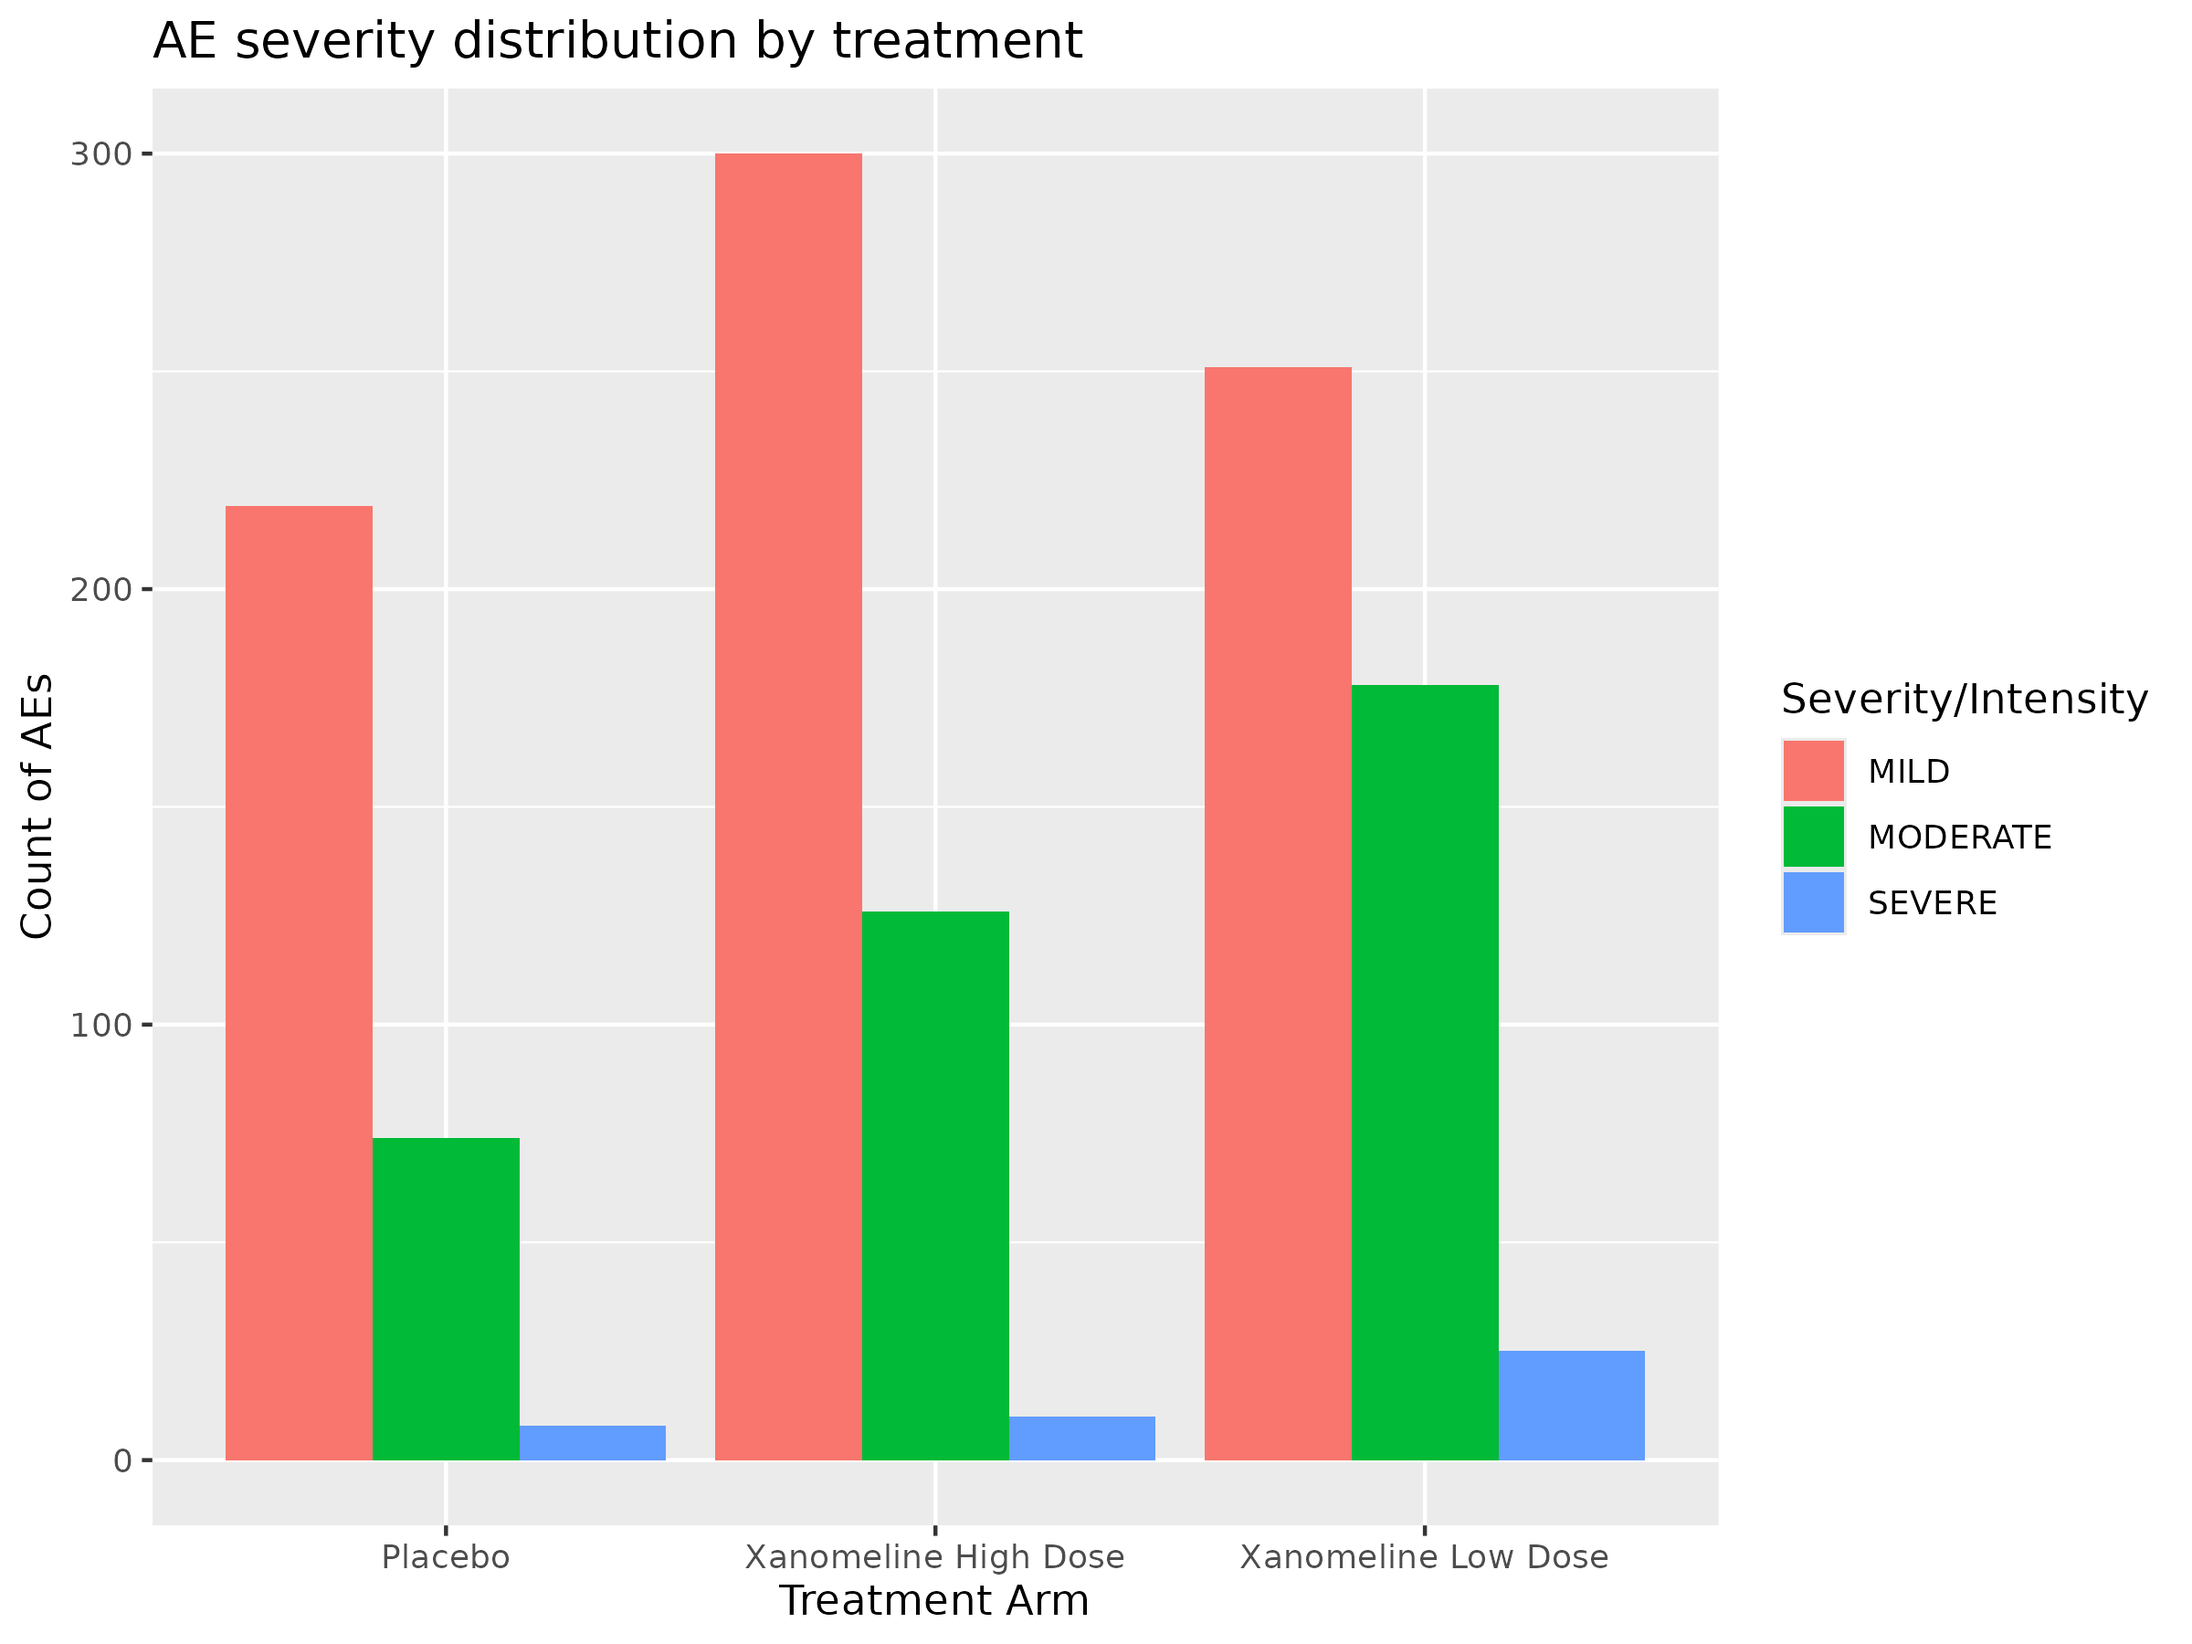
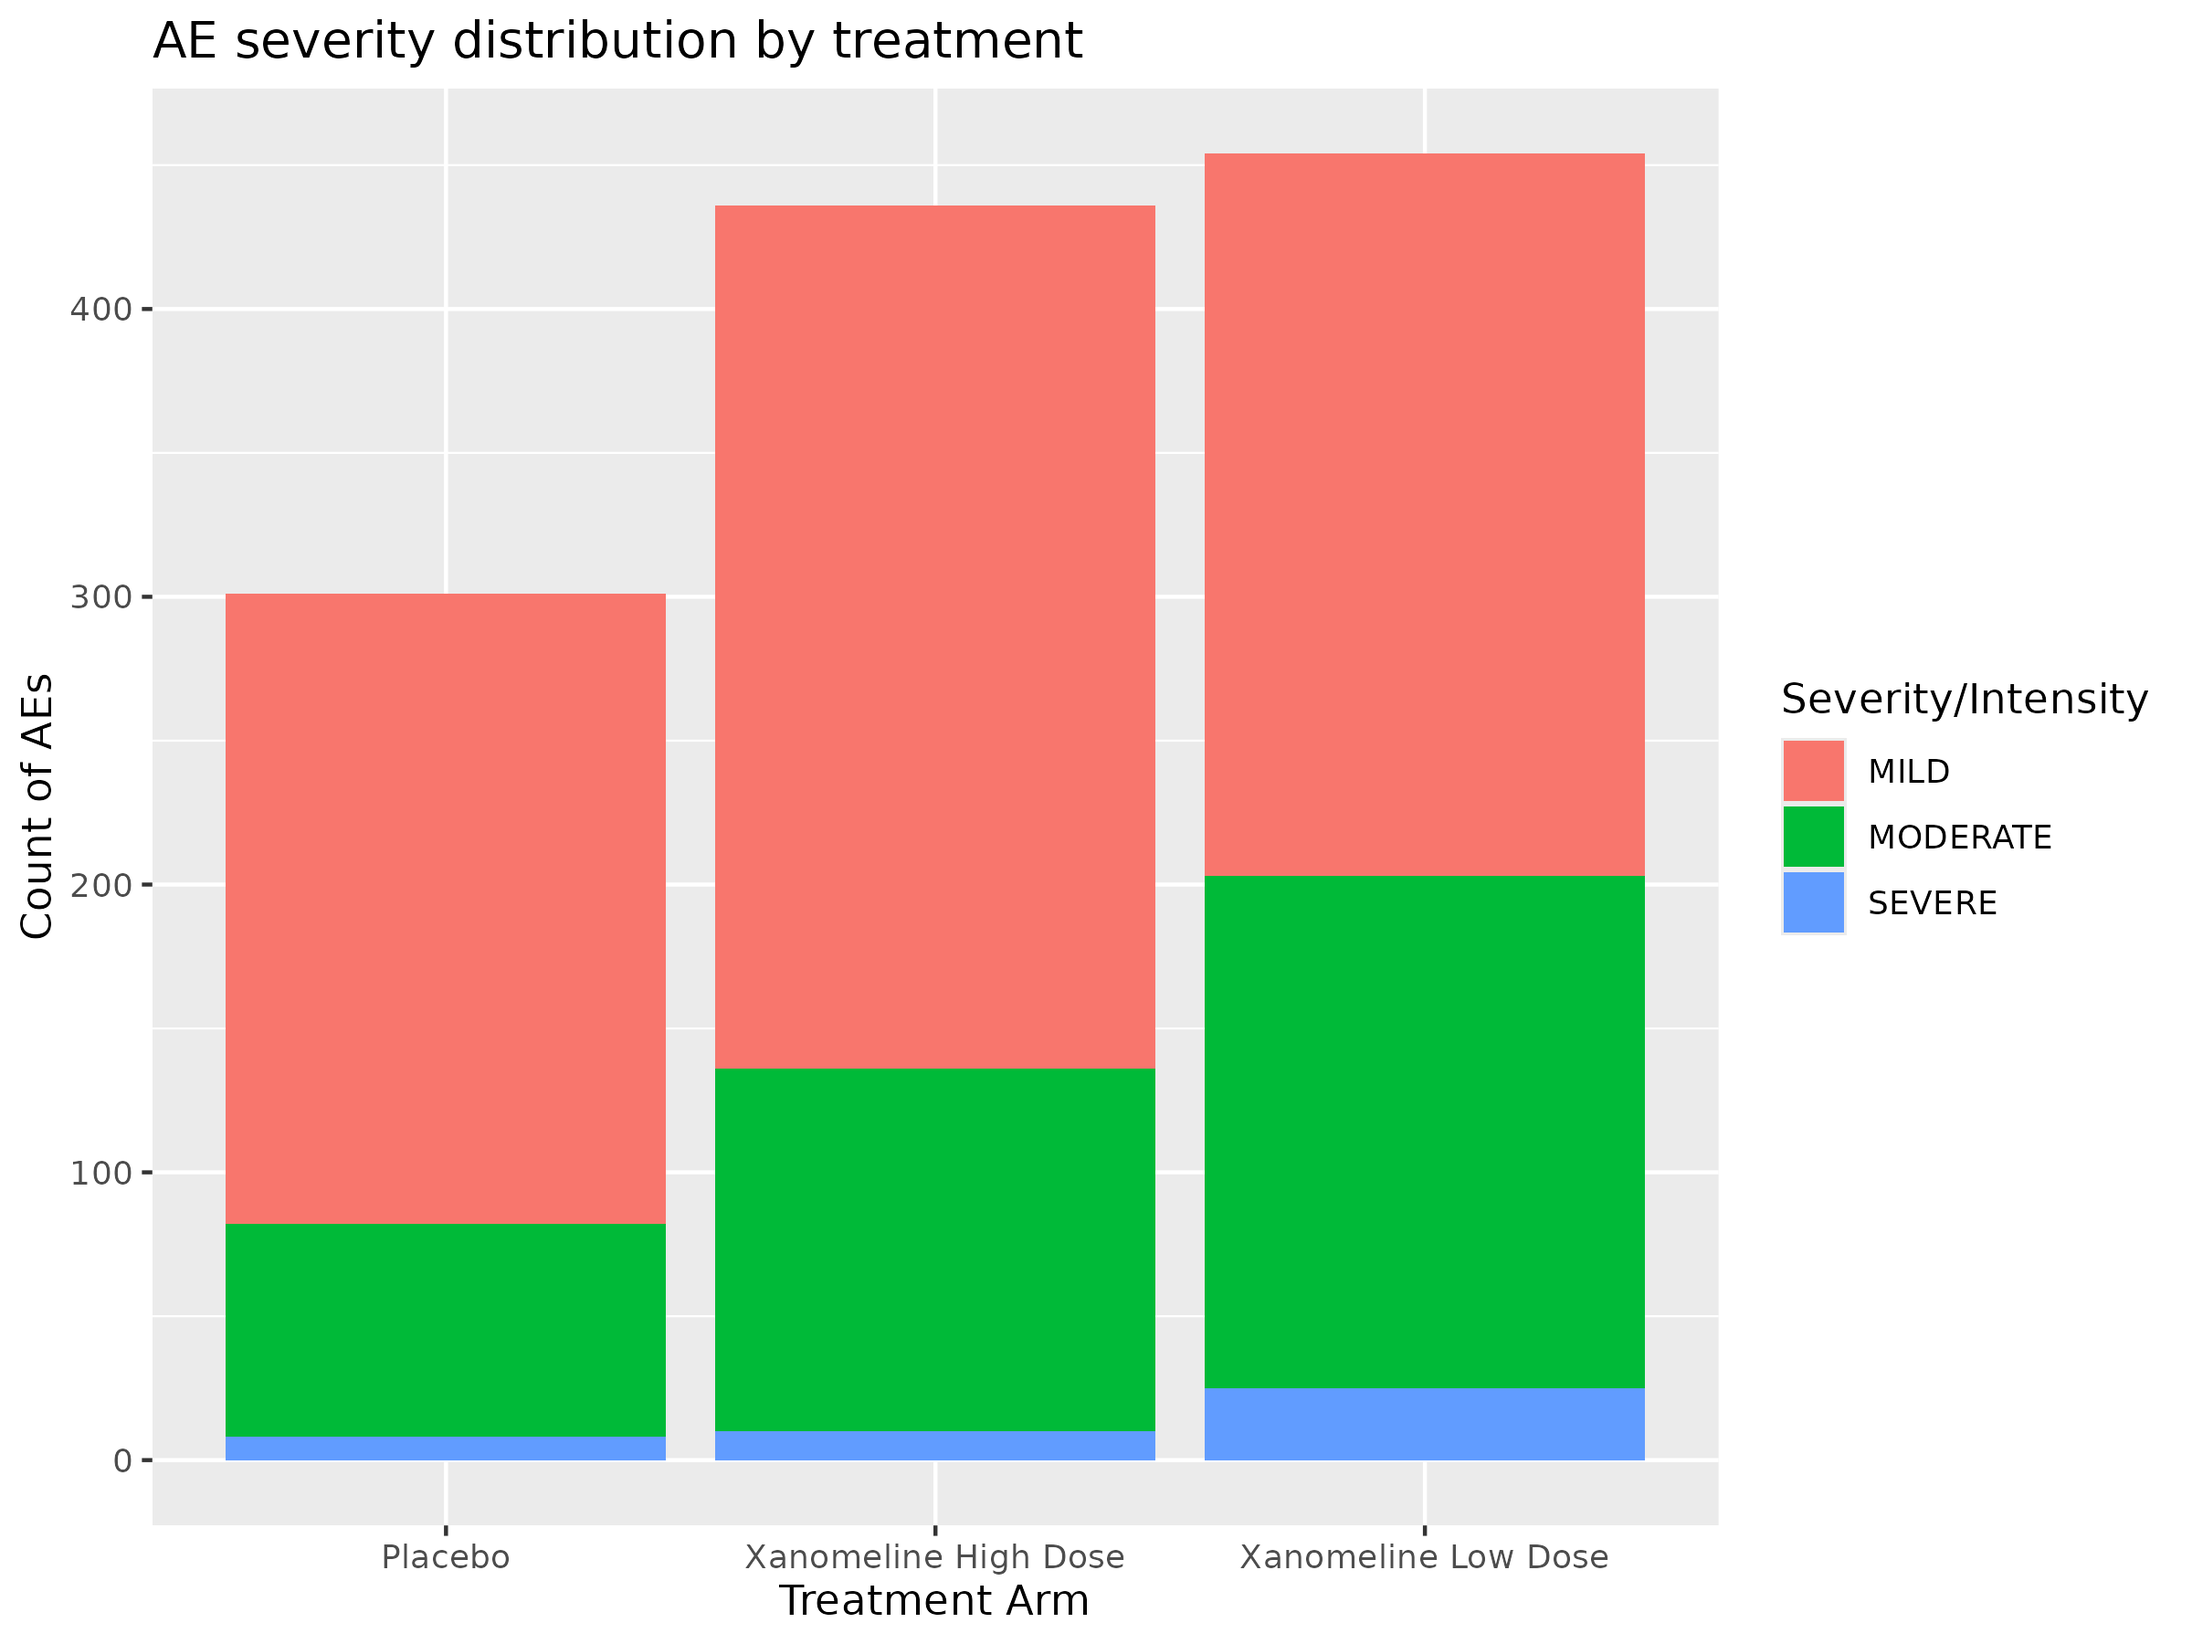
make stack barplots & remove depracated ggplot2 fun

Changed region(s): [[0.0938, 0.0933, 0.75, 0.9022], [0.0312, 0.5289, 0.0625, 0.56], [0.0312, 0.3422, 0.0625, 0.3733]]

diff --git a/question_3_tlg/teaes.html b/question_3_tlg/teaes.html
@@ -7,23 +7,23 @@
 
 </head>
 <body>
-<div id="jhiuediqqu" style="padding-left:0px;padding-right:0px;padding-top:10px;padding-bottom:10px;overflow-x:auto;overflow-y:auto;width:auto;height:auto;">
-  <style>#jhiuediqqu table {
+<div id="xucfghufyy" style="padding-left:0px;padding-right:0px;padding-top:10px;padding-bottom:10px;overflow-x:auto;overflow-y:auto;width:auto;height:auto;">
+  <style>#xucfghufyy table {
   font-family: system-ui, 'Segoe UI', Roboto, Helvetica, Arial, sans-serif, 'Apple Color Emoji', 'Segoe UI Emoji', 'Segoe UI Symbol', 'Noto Color Emoji';
   -webkit-font-smoothing: antialiased;
   -moz-osx-font-smoothing: grayscale;
 }
 
-#jhiuediqqu thead, #jhiuediqqu tbody, #jhiuediqqu tfoot, #jhiuediqqu tr, #jhiuediqqu td, #jhiuediqqu th {
+#xucfghufyy thead, #xucfghufyy tbody, #xucfghufyy tfoot, #xucfghufyy tr, #xucfghufyy td, #xucfghufyy th {
   border-style: none;
 }
 
-#jhiuediqqu p {
+#xucfghufyy p {
   margin: 0;
   padding: 0;
 }
 
-#jhiuediqqu .gt_table {
+#xucfghufyy .gt_table {
   display: table;
   border-collapse: collapse;
   line-height: normal;
@@ -49,12 +49,12 @@
   border-left-color: #D3D3D3;
 }
 
-#jhiuediqqu .gt_caption {
+#xucfghufyy .gt_caption {
   padding-top: 4px;
   padding-bottom: 4px;
 }
 
-#jhiuediqqu .gt_title {
+#xucfghufyy .gt_title {
   color: #333333;
   font-size: 125%;
   font-weight: initial;
@@ -66,7 +66,7 @@
   border-bottom-width: 0;
 }
 
-#jhiuediqqu .gt_subtitle {
+#xucfghufyy .gt_subtitle {
   color: #333333;
   font-size: 85%;
   font-weight: initial;
@@ -78,7 +78,7 @@
   border-top-width: 0;
 }
 
-#jhiuediqqu .gt_heading {
+#xucfghufyy .gt_heading {
   background-color: #FFFFFF;
   text-align: center;
   border-bottom-color: #FFFFFF;
@@ -90,13 +90,13 @@
   border-right-color: #D3D3D3;
 }
 
-#jhiuediqqu .gt_bottom_border {
+#xucfghufyy .gt_bottom_border {
   border-bottom-style: solid;
   border-bottom-width: 2px;
   border-bottom-color: #D3D3D3;
 }
 
-#jhiuediqqu .gt_col_headings {
+#xucfghufyy .gt_col_headings {
   border-top-style: solid;
   border-top-width: 2px;
   border-top-color: #D3D3D3;
@@ -111,7 +111,7 @@
   border-right-color: #D3D3D3;
 }
 
-#jhiuediqqu .gt_col_heading {
+#xucfghufyy .gt_col_heading {
   color: #333333;
   background-color: #FFFFFF;
   font-size: 100%;
@@ -131,7 +131,7 @@
   overflow-x: hidden;
 }
 
-#jhiuediqqu .gt_column_spanner_outer {
+#xucfghufyy .gt_column_spanner_outer {
   color: #333333;
   background-color: #FFFFFF;
   font-size: 100%;
@@ -143,15 +143,15 @@
   padding-right: 4px;
 }
 
-#jhiuediqqu .gt_column_spanner_outer:first-child {
+#xucfghufyy .gt_column_spanner_outer:first-child {
   padding-left: 0;
 }
 
-#jhiuediqqu .gt_column_spanner_outer:last-child {
+#xucfghufyy .gt_column_spanner_outer:last-child {
   padding-right: 0;
 }
 
-#jhiuediqqu .gt_column_spanner {
+#xucfghufyy .gt_column_spanner {
   border-bottom-style: solid;
   border-bottom-width: 2px;
   border-bottom-color: #D3D3D3;
@@ -163,11 +163,11 @@
   width: 100%;
 }
 
-#jhiuediqqu .gt_spanner_row {
+#xucfghufyy .gt_spanner_row {
   border-bottom-style: hidden;
 }
 
-#jhiuediqqu .gt_group_heading {
+#xucfghufyy .gt_group_heading {
   padding-top: 8px;
   padding-bottom: 8px;
   padding-left: 5px;
@@ -193,7 +193,7 @@
   text-align: left;
 }
 
-#jhiuediqqu .gt_empty_group_heading {
+#xucfghufyy .gt_empty_group_heading {
   padding: 0.5px;
   color: #333333;
   background-color: #FFFFFF;
@@ -208,15 +208,15 @@
   vertical-align: middle;
 }
 
-#jhiuediqqu .gt_from_md > :first-child {
+#xucfghufyy .gt_from_md > :first-child {
   margin-top: 0;
 }
 
-#jhiuediqqu .gt_from_md > :last-child {
+#xucfghufyy .gt_from_md > :last-child {
   margin-bottom: 0;
 }
 
-#jhiuediqqu .gt_row {
+#xucfghufyy .gt_row {
   padding-top: 8px;
   padding-bottom: 8px;
   padding-left: 5px;
@@ -235,7 +235,7 @@
   overflow-x: hidden;
 }
 
-#jhiuediqqu .gt_stub {
+#xucfghufyy .gt_stub {
   color: #333333;
   background-color: #FFFFFF;
   font-size: 100%;
@@ -248,7 +248,7 @@
   padding-right: 5px;
 }
 
-#jhiuediqqu .gt_stub_row_group {
+#xucfghufyy .gt_stub_row_group {
   color: #333333;
   background-color: #FFFFFF;
   font-size: 100%;
@@ -262,15 +262,15 @@
   vertical-align: top;
 }
 
-#jhiuediqqu .gt_row_group_first td {
+#xucfghufyy .gt_row_group_first td {
   border-top-width: 2px;
 }
 
-#jhiuediqqu .gt_row_group_first th {
+#xucfghufyy .gt_row_group_first th {
   border-top-width: 2px;
 }
 
-#jhiuediqqu .gt_summary_row {
+#xucfghufyy .gt_summary_row {
   color: #333333;
   background-color: #FFFFFF;
   text-transform: inherit;
@@ -280,16 +280,16 @@
   padding-right: 5px;
 }
 
-#jhiuediqqu .gt_first_summary_row {
+#xucfghufyy .gt_first_summary_row {
   border-top-style: solid;
   border-top-color: #D3D3D3;
 }
 
-#jhiuediqqu .gt_first_summary_row.thick {
+#xucfghufyy .gt_first_summary_row.thick {
   border-top-width: 2px;
 }
 
-#jhiuediqqu .gt_last_summary_row {
+#xucfghufyy .gt_last_summary_row {
   padding-top: 8px;
   padding-bottom: 8px;
   padding-left: 5px;
@@ -299,7 +299,7 @@
   border-bottom-color: #D3D3D3;
 }
 
-#jhiuediqqu .gt_grand_summary_row {
+#xucfghufyy .gt_grand_summary_row {
   color: #333333;
   background-color: #FFFFFF;
   text-transform: inherit;
@@ -309,7 +309,7 @@
   padding-right: 5px;
 }
 
-#jhiuediqqu .gt_first_grand_summary_row {
+#xucfghufyy .gt_first_grand_summary_row {
   padding-top: 8px;
   padding-bottom: 8px;
   padding-left: 5px;
@@ -319,7 +319,7 @@
   border-top-color: #D3D3D3;
 }
 
-#jhiuediqqu .gt_last_grand_summary_row_top {
+#xucfghufyy .gt_last_grand_summary_row_top {
   padding-top: 8px;
   padding-bottom: 8px;
   padding-left: 5px;
@@ -329,11 +329,11 @@
   border-bottom-color: #D3D3D3;
 }
 
-#jhiuediqqu .gt_striped {
+#xucfghufyy .gt_striped {
   background-color: rgba(128, 128, 128, 0.05);
 }
 
-#jhiuediqqu .gt_table_body {
+#xucfghufyy .gt_table_body {
   border-top-style: solid;
   border-top-width: 2px;
   border-top-color: #D3D3D3;
@@ -342,7 +342,7 @@
   border-bottom-color: #D3D3D3;
 }
 
-#jhiuediqqu .gt_footnotes {
+#xucfghufyy .gt_footnotes {
   color: #333333;
   background-color: #FFFFFF;
   border-bottom-style: none;
@@ -356,7 +356,7 @@
   border-right-color: #D3D3D3;
 }
 
-#jhiuediqqu .gt_footnote {
+#xucfghufyy .gt_footnote {
   margin: 0px;
   font-size: 90%;
   padding-top: 4px;
@@ -365,7 +365,7 @@
   padding-right: 5px;
 }
 
-#jhiuediqqu .gt_sourcenotes {
+#xucfghufyy .gt_sourcenotes {
   color: #333333;
   background-color: #FFFFFF;
   border-bottom-style: none;
@@ -379,7 +379,7 @@
   border-right-color: #D3D3D3;
 }
 
-#jhiuediqqu .gt_sourcenote {
+#xucfghufyy .gt_sourcenote {
   font-size: 90%;
   padding-top: 4px;
   padding-bottom: 4px;
@@ -387,72 +387,72 @@
   padding-right: 5px;
 }
 
-#jhiuediqqu .gt_left {
+#xucfghufyy .gt_left {
   text-align: left;
 }
 
-#jhiuediqqu .gt_center {
+#xucfghufyy .gt_center {
   text-align: center;
 }
 
-#jhiuediqqu .gt_right {
+#xucfghufyy .gt_right {
   text-align: right;
   font-variant-numeric: tabular-nums;
 }
 
-#jhiuediqqu .gt_font_normal {
+#xucfghufyy .gt_font_normal {
   font-weight: normal;
 }
 
-#jhiuediqqu .gt_font_bold {
+#xucfghufyy .gt_font_bold {
   font-weight: bold;
 }
 
-#jhiuediqqu .gt_font_italic {
+#xucfghufyy .gt_font_italic {
   font-style: italic;
 }
 
-#jhiuediqqu .gt_super {
+#xucfghufyy .gt_super {
   font-size: 65%;
 }
 
-#jhiuediqqu .gt_footnote_marks {
+#xucfghufyy .gt_footnote_marks {
   font-size: 75%;
   vertical-align: 0.4em;
   position: initial;
 }
 
-#jhiuediqqu .gt_asterisk {
+#xucfghufyy .gt_asterisk {
   font-size: 100%;
   vertical-align: 0;
 }
 
-#jhiuediqqu .gt_indent_1 {
+#xucfghufyy .gt_indent_1 {
   text-indent: 5px;
 }
 
-#jhiuediqqu .gt_indent_2 {
+#xucfghufyy .gt_indent_2 {
   text-indent: 10px;
 }
 
-#jhiuediqqu .gt_indent_3 {
+#xucfghufyy .gt_indent_3 {
   text-indent: 15px;
 }
 
-#jhiuediqqu .gt_indent_4 {
+#xucfghufyy .gt_indent_4 {
   text-indent: 20px;
 }
 
-#jhiuediqqu .gt_indent_5 {
+#xucfghufyy .gt_indent_5 {
   text-indent: 25px;
 }
 
-#jhiuediqqu .katex-display {
+#xucfghufyy .katex-display {
   display: inline-flex !important;
   margin-bottom: 0.75em !important;
 }
 
-#jhiuediqqu div.Reactable > div.rt-table > div.rt-thead > div.rt-tr.rt-tr-group-header > div.rt-th-group:after {
+#xucfghufyy div.Reactable > div.rt-table > div.rt-thead > div.rt-tr.rt-tr-group-header > div.rt-th-group:after {
   height: 0px !important;
 }
 </style>
